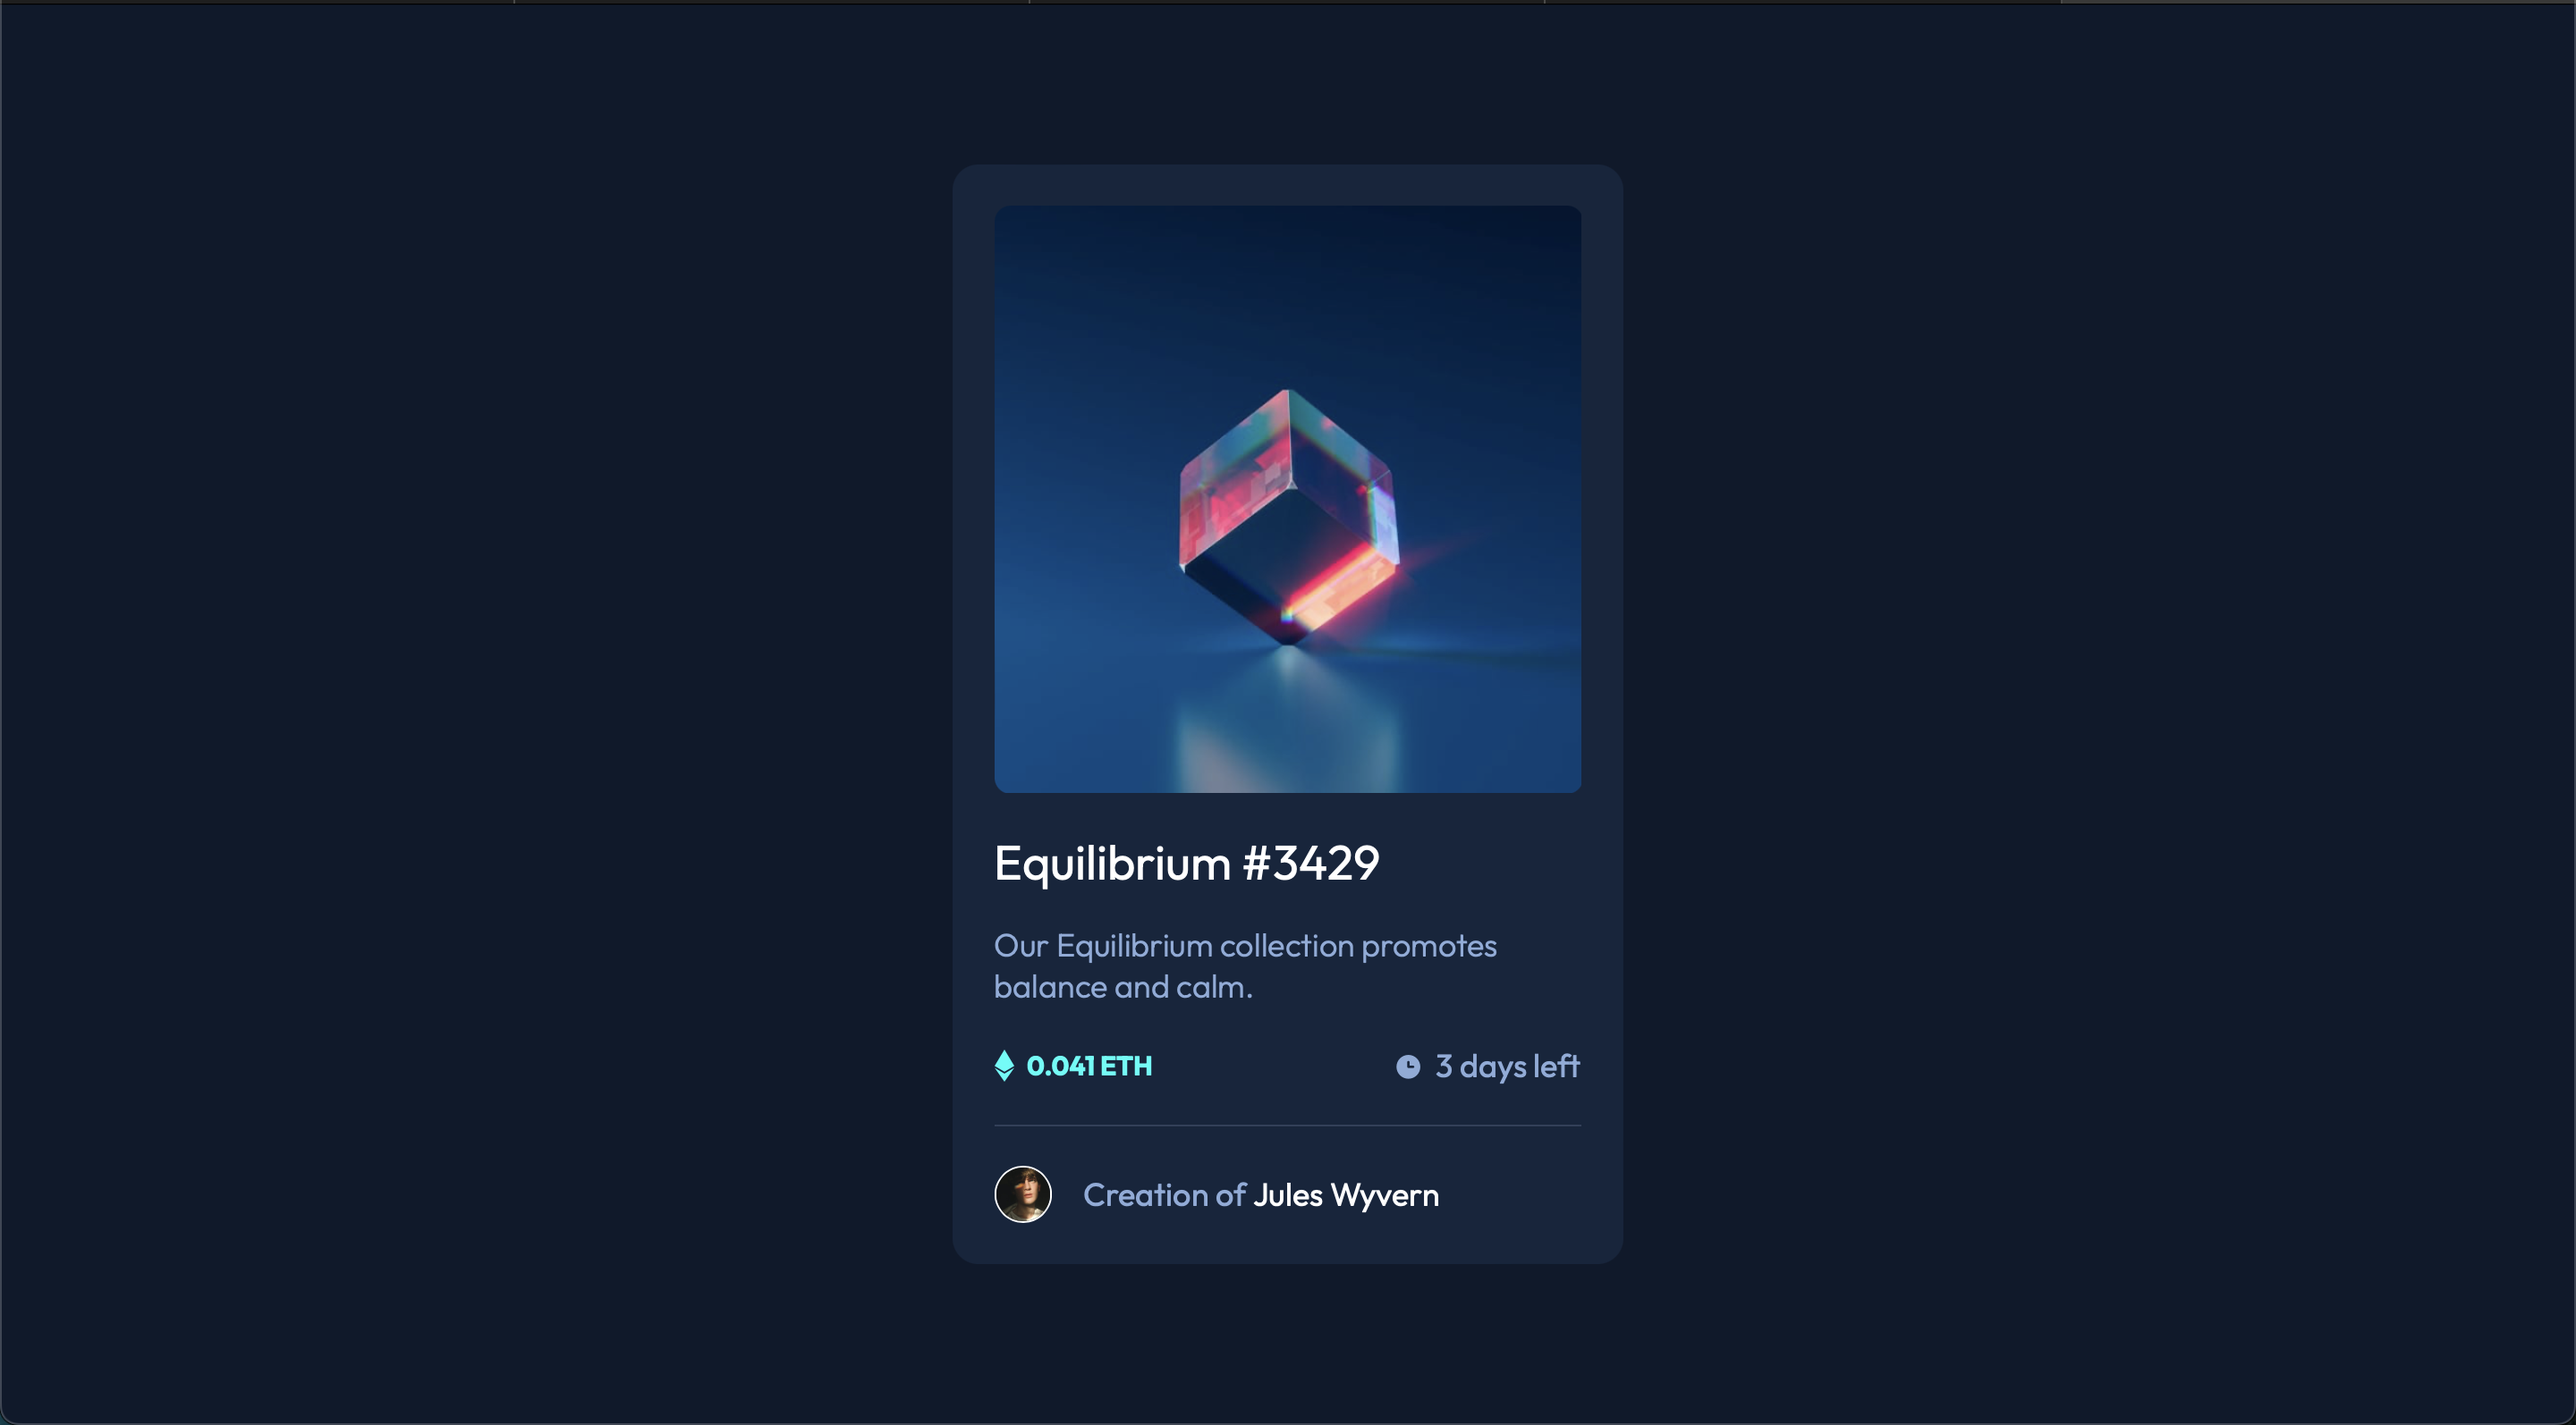
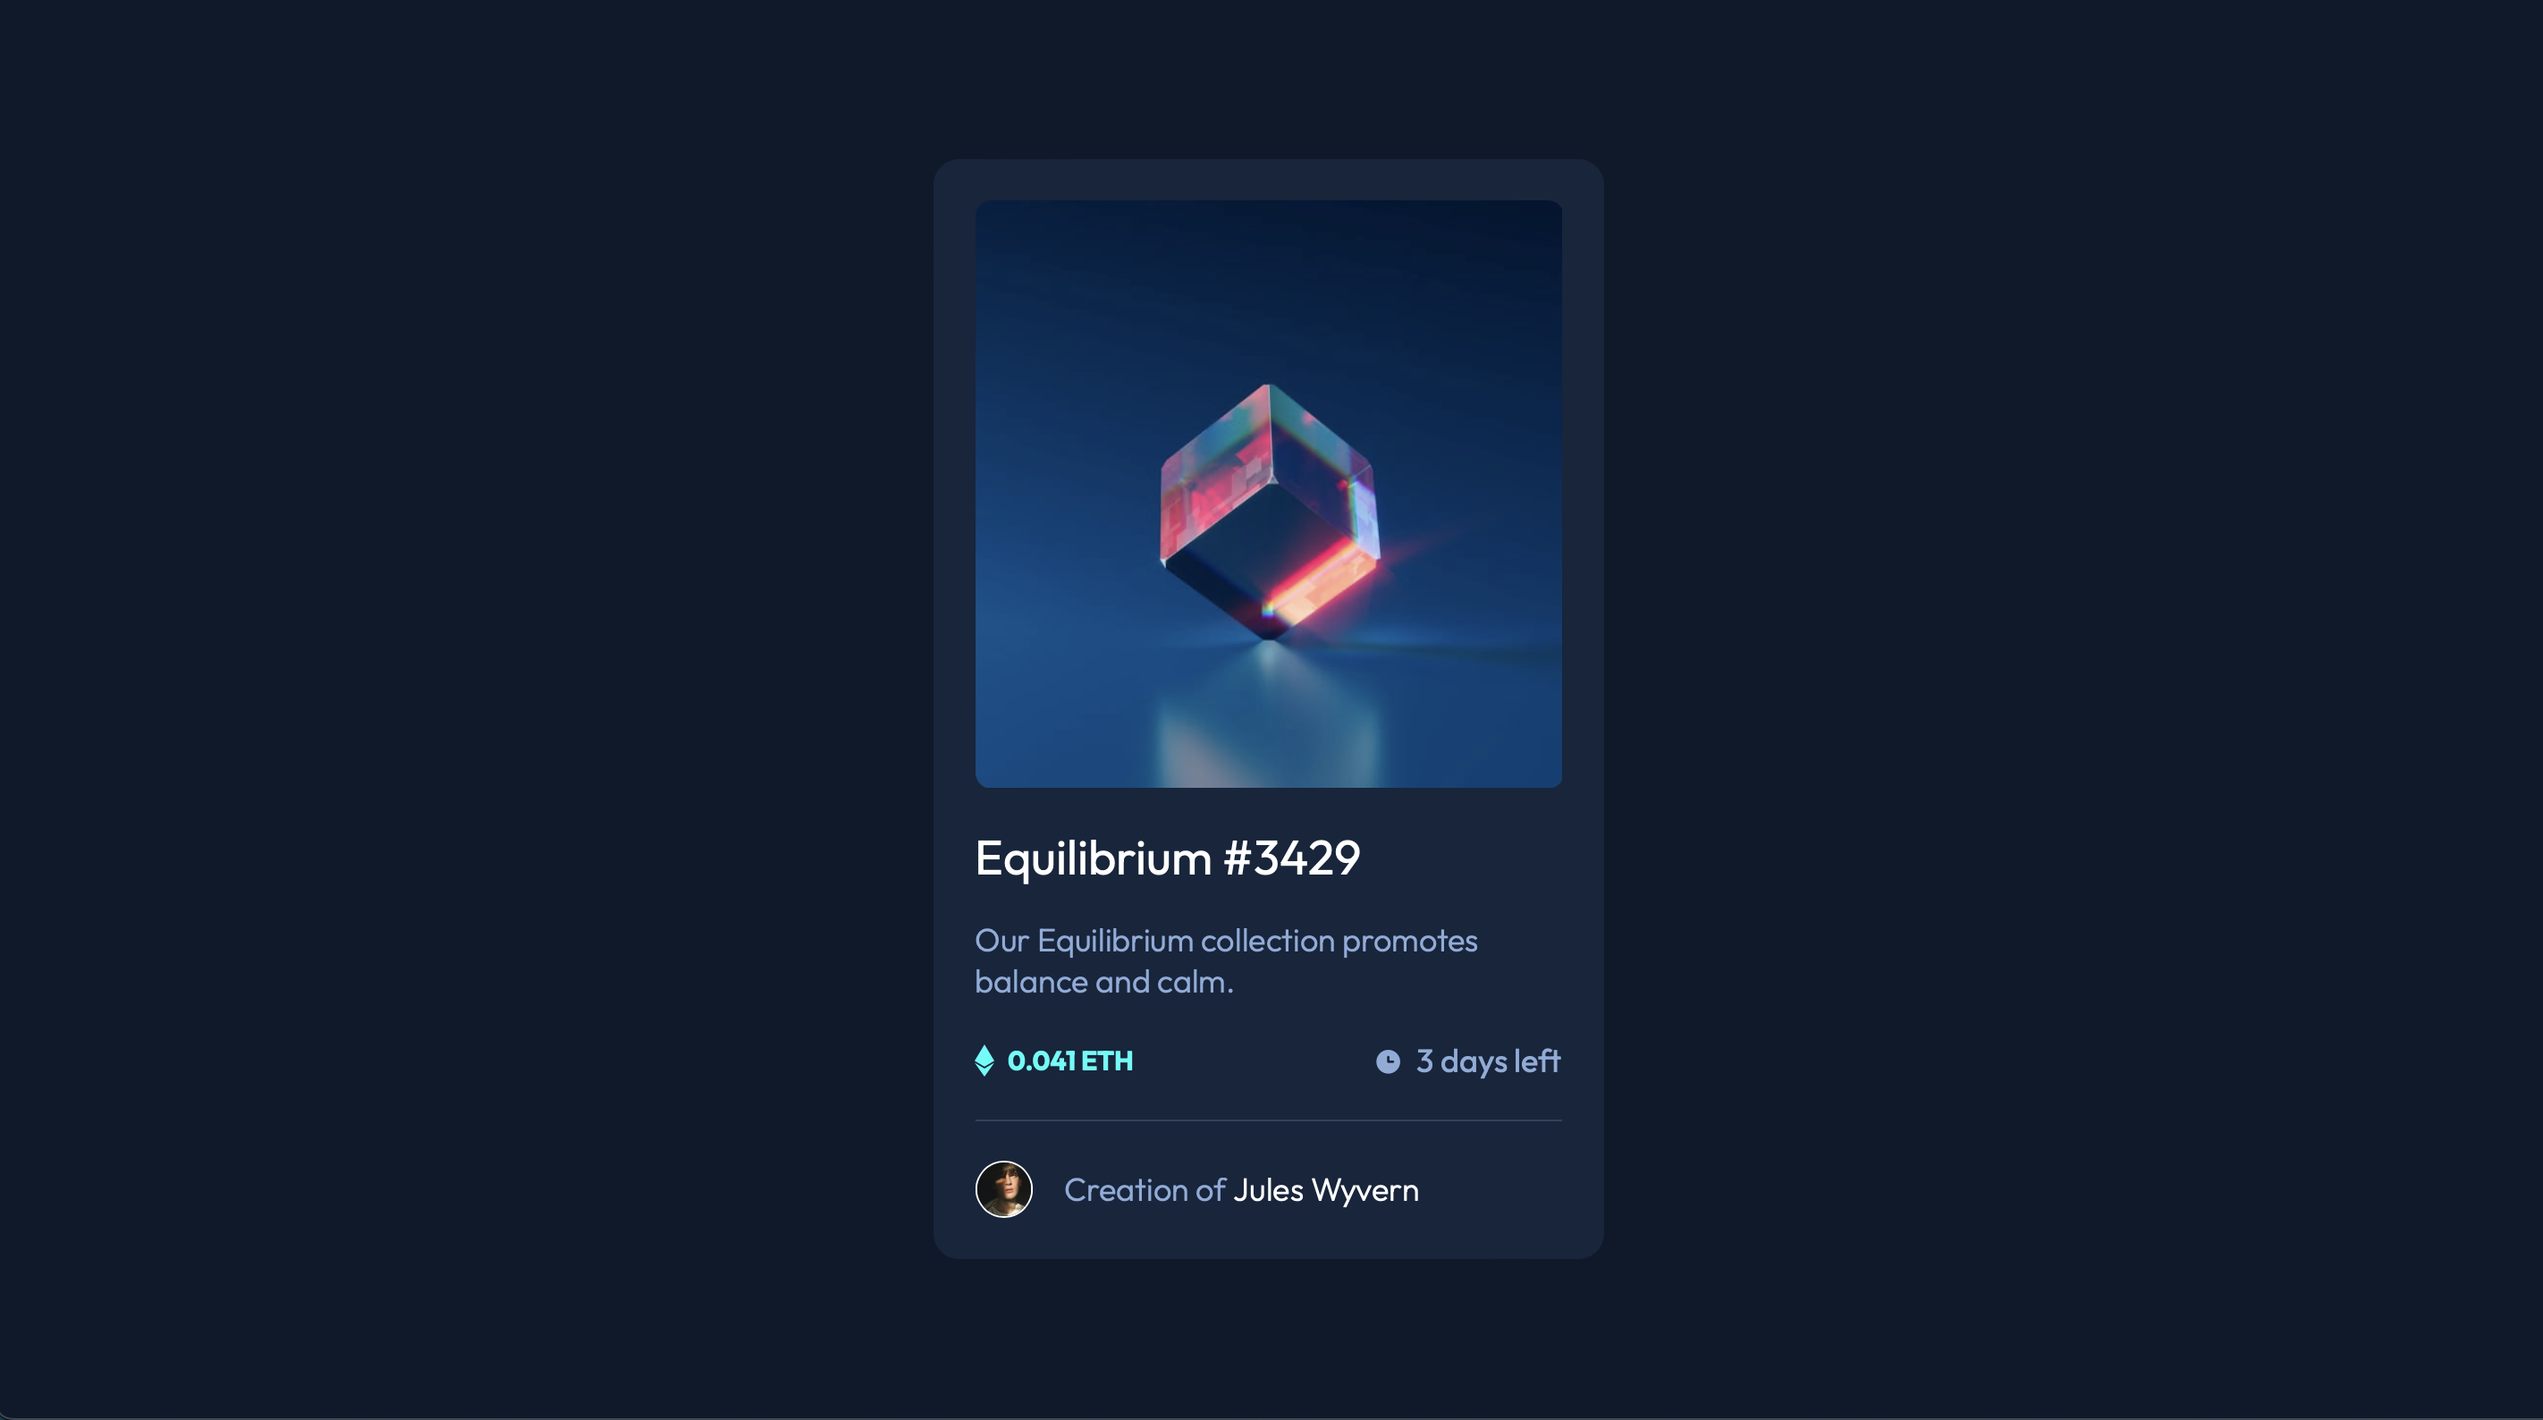
Add files via upload

diff --git a/css/style.css b/css/style.css
@@ -1,0 +1,163 @@
+*,
+::before,
+::after {
+  margin: 0;
+  padding: 0;
+  box-sizing: border-box;
+}
+
+:root {
+  --Soft_blue: hsl(215, 51%, 70%);
+  --Cyan: hsl(178, 100%, 50%);
+  --Very_dark_blue_main_BG: hsl(217, 54%, 11%);
+  --Very_dark_blue_card_BG: hsl(216, 50%, 16%);
+  --Very_dark_blue_line: hsl(215, 32%, 27%);
+  --White: hsl(0, 0%, 100%);
+}
+
+html {
+  font-family: "Outfit", sans-serif;
+  font-size: 18px;
+}
+
+img {
+  width: 100%;
+  height: 100%;
+  object-fit: cover;
+}
+
+.main {
+  display: flex;
+  justify-content: center;
+  align-items: center;
+  min-height: 100vh;
+  background-color: var(--Very_dark_blue_main_BG);
+}
+
+.container {
+  display: flex;
+  flex-direction: column;
+  background-color: var(--Very_dark_blue_card_BG);
+  padding: 1.3rem;
+  max-width: 375px;
+  width: 100%;
+  gap: 1.2rem;
+  border-radius: 0.8rem;
+  margin: 1rem;
+}
+
+.image-container {
+  display: flex;
+  justify-content: center;
+  align-items: center;
+  width: 100%;
+  height: auto;
+  position: relative;
+  border-radius: 0.5rem;
+  overflow: hidden;
+}
+
+.image-equilibrium {
+  min-width: 240px;
+  width: inherit;
+  height: inherit;
+}
+
+.overlay {
+  position: absolute;
+  top: 0;
+  bottom: 0;
+  left: 0;
+  right: 0;
+  width: 100%;
+  height: 100%;
+  display: flex;
+  justify-content: center;
+  align-items: center;
+  opacity: 0;
+  border-radius: 0.5rem;
+  transition: 0.5s ease;
+  background-color: hsla(178, 100%, 50%, 0.5);
+}
+
+.image-container:hover .overlay {
+  opacity: 1;
+  cursor: pointer;
+}
+
+h1 {
+  font-size: 1.5rem;
+  font-weight: 400;
+  margin-bottom: 1rem;
+}
+
+h1,
+span {
+  color: var(--White);
+}
+
+h1:hover,
+span:hover {
+  color: var(--Cyan);
+  cursor: pointer;
+}
+
+.title-subtitle p {
+  font-weight: 300;
+  font-size: 18px;
+}
+
+.price-date {
+  display: flex;
+  justify-content: space-between;
+  align-items: center;
+}
+
+.price {
+  display: inherit;
+  align-items: inherit;
+  font-size: 10px;
+  gap: 0.4rem;
+  color: var(--Cyan);
+}
+
+.title-subtitle p,
+.date,
+.author {
+  color: var(--Soft_blue);
+}
+
+.date {
+  display: inherit;
+  align-items: inherit;
+  gap: 0.4rem;
+}
+
+hr {
+  background-color: var(--Very_dark_blue_line);
+  border: none;
+  height: 1px;
+}
+.author {
+  display: flex;
+  align-items: center;
+  gap: 1rem;
+  font-weight: 300;
+}
+
+.avatar {
+  width: 32px;
+  height: 32px;
+  border: solid 1px var(--White);
+  border-radius: 100%;
+}
+footer {
+  background-color: var(--Very_dark_blue_main_BG);
+  padding-bottom: 0.2rem;
+  color: var(--White);
+}
+@media (max-width: 450px) {
+  .container {
+    min-width: 280px;
+  }
+}
